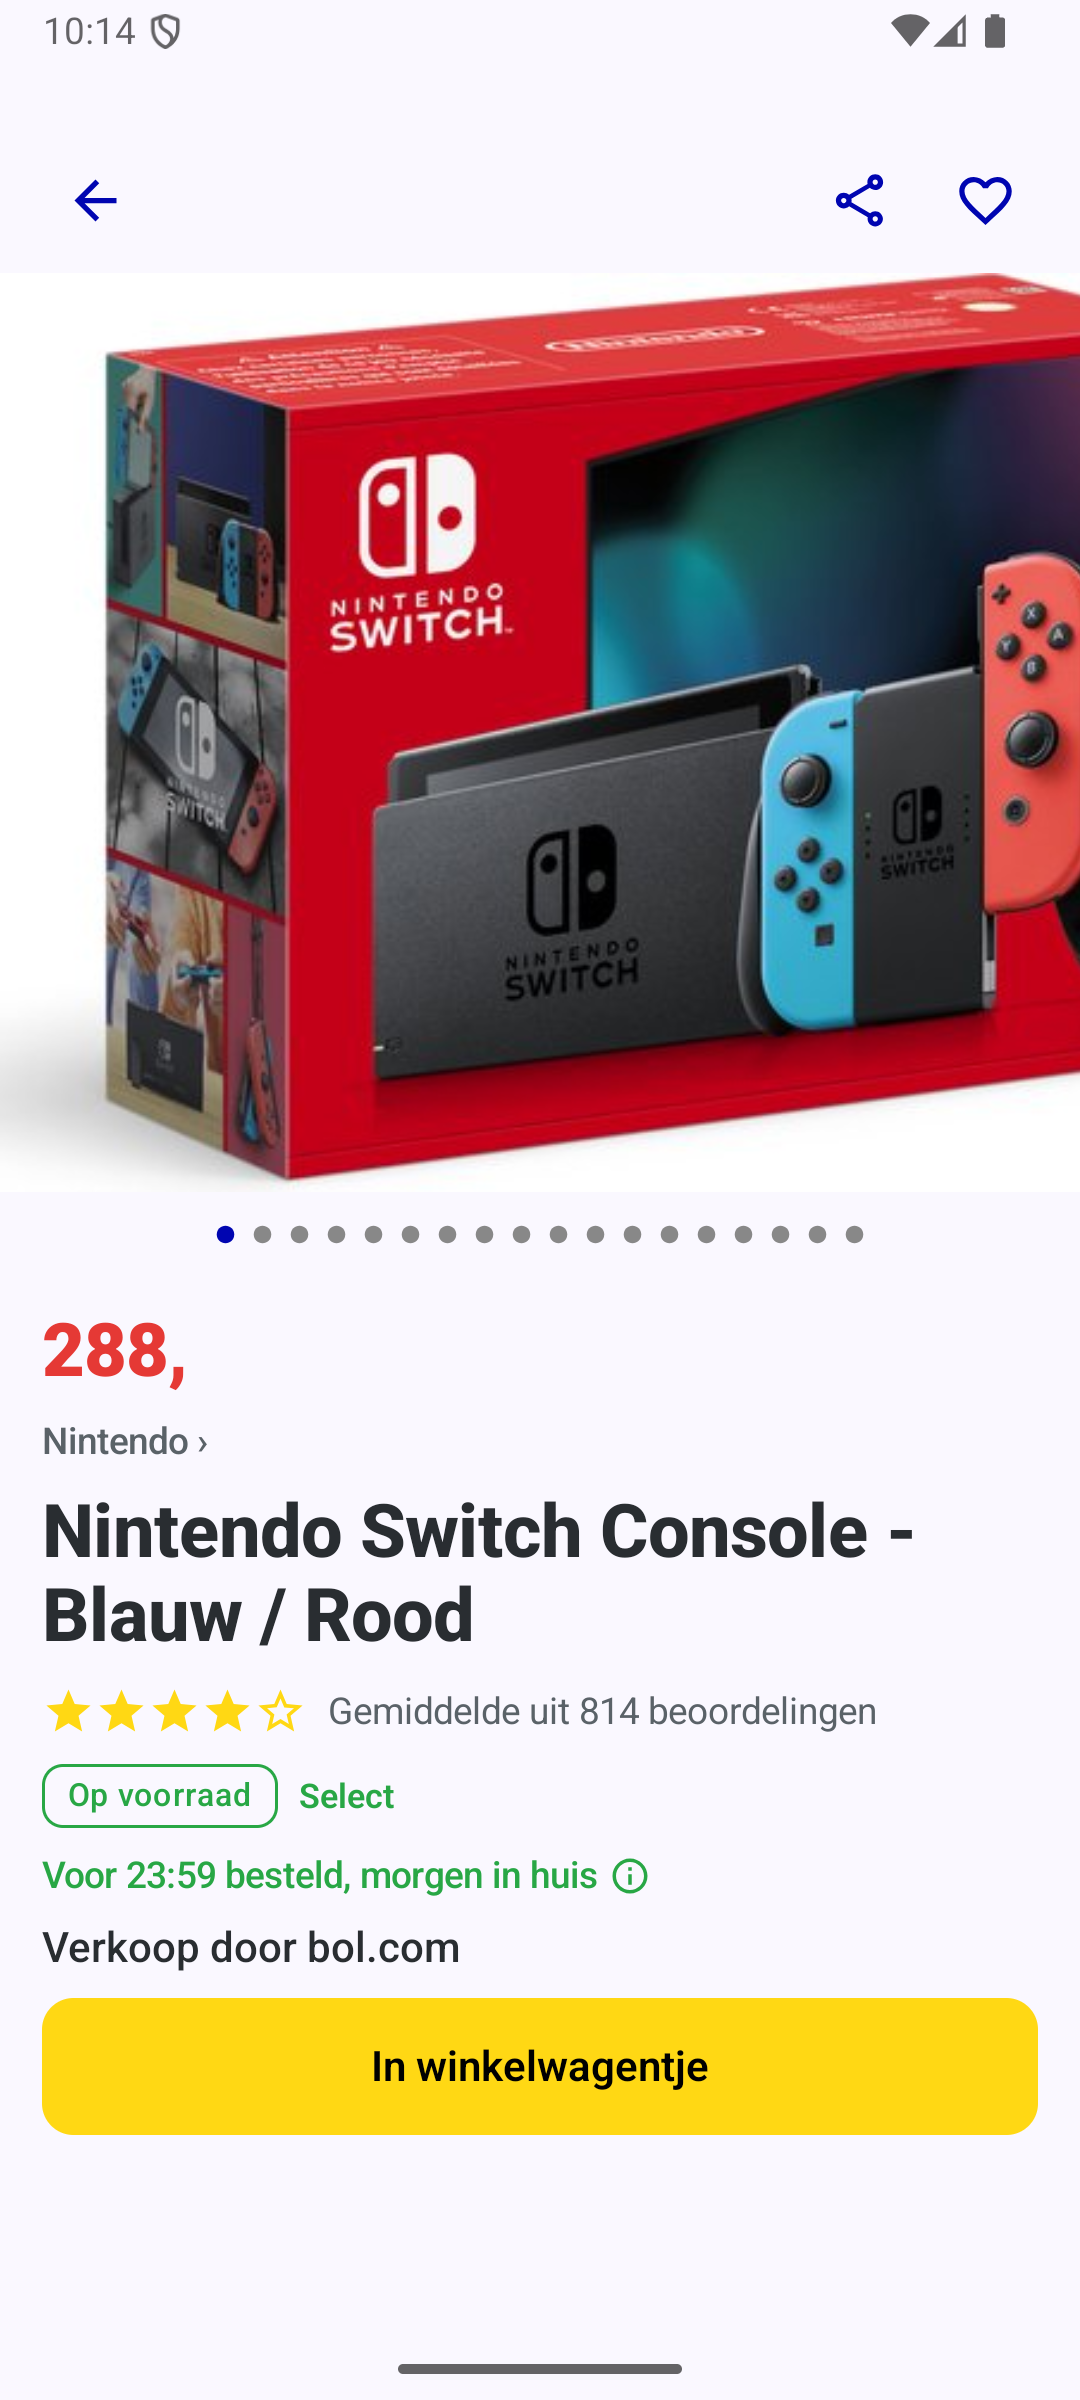
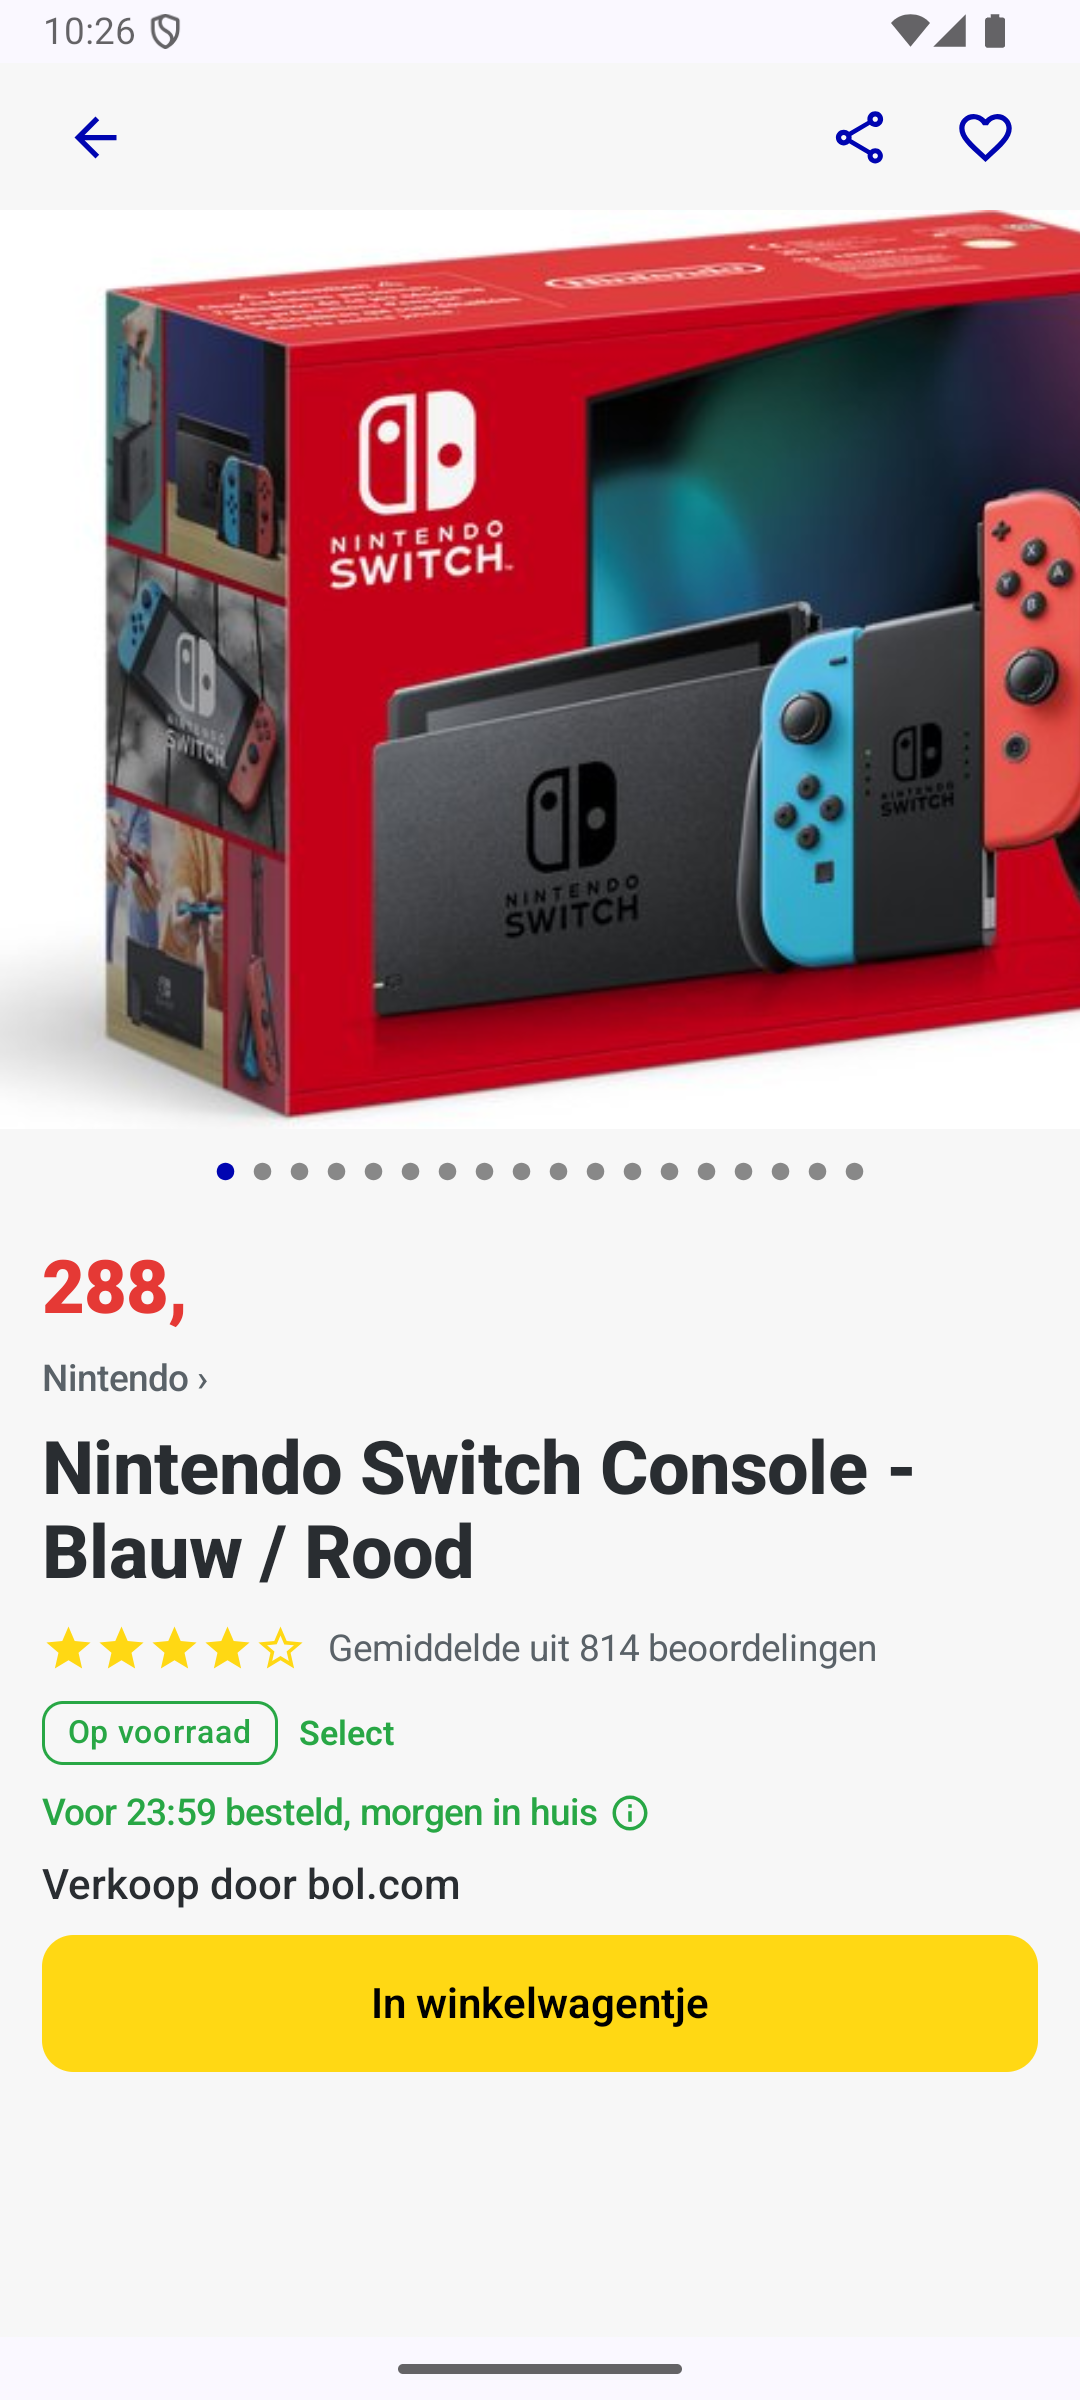
Minor fixes and cleanup.

diff --git a/productdetail/src/main/java/com/elkhami/productdetail/presentation/ProductDetailScreen.kt b/productdetail/src/main/java/com/elkhami/productdetail/presentation/ProductDetailScreen.kt
@@ -1,5 +1,6 @@
 package com.elkhami.productdetail.presentation
 
+import androidx.compose.foundation.background
 import androidx.compose.foundation.clickable
 import androidx.compose.foundation.layout.Arrangement
 import androidx.compose.foundation.layout.Column
@@ -101,8 +102,10 @@ fun ProductDetailScreenContent(
     screenState: ScreenState<ProductDetailUiState.Content>,
     action: ProductDetailScreenAction
 ) {
+    val colors = LocalAppColors.current
+
     Column(
-        modifier = modifier.fillMaxSize()
+        modifier = modifier.fillMaxSize().background(color = colors.surface)
     ) {
         when (val state = screenState) {
             is ScreenState.Content -> {
@@ -306,7 +309,7 @@ fun ProductDetailScreenPreview() {
     }
 }
 
-@Preview(showBackground = true)
+@Preview(showBackground = true, showSystemUi = true)
 @Composable
 fun ProductDetailScreenPreviewOtherOptions() {
     AppTheme {

diff --git a/core-ui/src/main/java/com/elkhami/core_ui/components/ProductTopBar.kt b/core-ui/src/main/java/com/elkhami/core_ui/components/ProductTopBar.kt
@@ -5,7 +5,6 @@ import androidx.compose.foundation.layout.Spacer
 import androidx.compose.foundation.layout.fillMaxWidth
 import androidx.compose.foundation.layout.height
 import androidx.compose.foundation.layout.padding
-import androidx.compose.foundation.layout.statusBarsPadding
 import androidx.compose.material.icons.Icons
 import androidx.compose.material.icons.automirrored.outlined.ArrowBack
 import androidx.compose.material.icons.filled.Favorite
@@ -35,7 +34,6 @@ fun ProductTopBar(
     Row(
         modifier = Modifier
             .fillMaxWidth()
-            .statusBarsPadding()
             .height(dimens.topBarHeight)
             .padding(horizontal = dimens.topBarPadding),
         verticalAlignment = Alignment.CenterVertically

diff --git a/README.md b/README.md
@@ -12,7 +12,7 @@ While the current scope focuses on product detail features, the architecture and
 ### Product Detail Screen
 <table>
   <tr>
-    <td><img src="screenshot/product_detail_screenshot.png" width="250" alt="Repository details screen demo"/></td>
+    <td><img src="screenshot/product_detail_screenshot.png" width="250" alt="Product details screen"/></td>
   </tr>
 </table>
 
